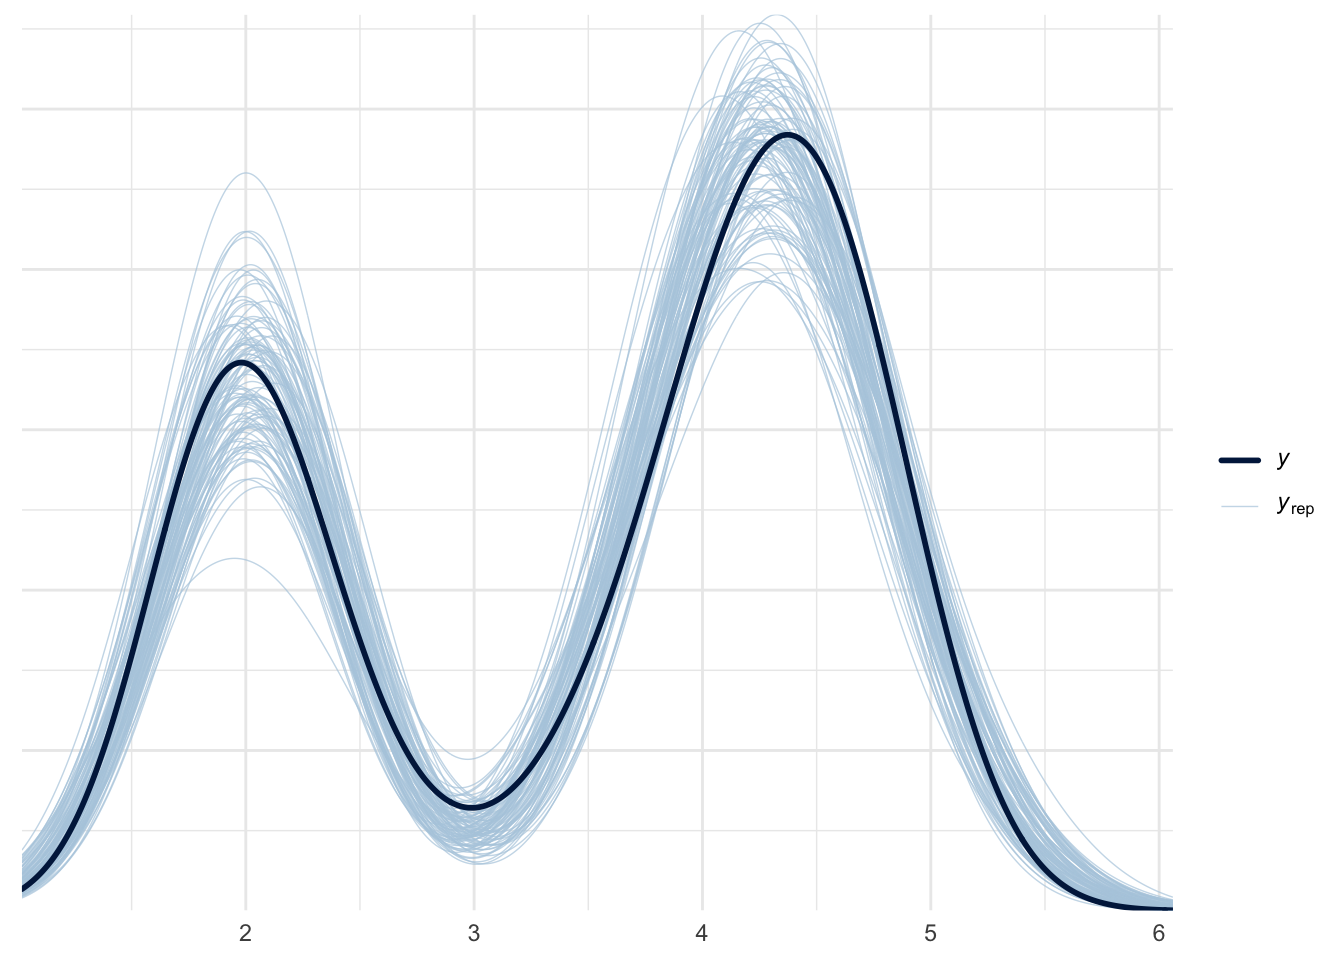
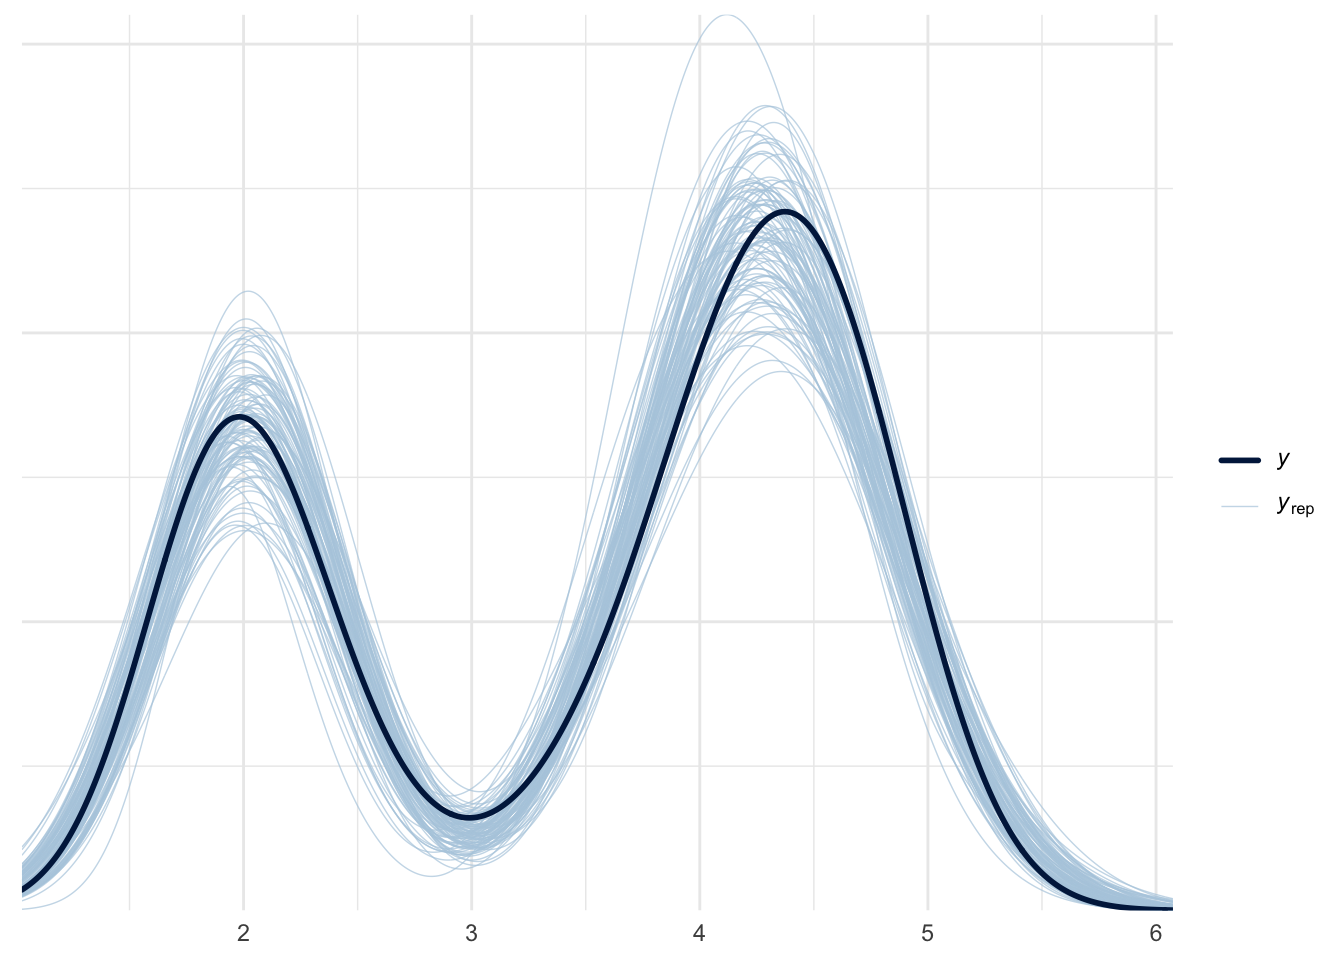
fixed notation; a mixture of gaussians is not equivalent to a sum of gaussians

diff --git a/docs/posts.html b/docs/posts.html
@@ -183,7 +183,7 @@ window.Quarto = {
 
 <div class="quarto-listing quarto-listing-container-default" id="listing-listing">
 <div class="list quarto-listing-default">
-<div class="quarto-post image-right" data-index="0" data-categories="U3RhdGlzdGljcw==" data-listing-date-sort="1742849023000" data-listing-file-modified-sort="1742849023566" data-listing-date-modified-sort="NaN" data-listing-reading-time-sort="5" data-listing-word-count-sort="801">
+<div class="quarto-post image-right" data-index="0" data-categories="U3RhdGlzdGljcw==" data-listing-date-sort="1742926377000" data-listing-file-modified-sort="1742926377781" data-listing-date-modified-sort="NaN" data-listing-reading-time-sort="5" data-listing-word-count-sort="803">
 <div class="thumbnail">
 <p><a href="./posts/mixture model 1/index.html" class="no-external"></a></p><a href="./posts/mixture model 1/index.html" class="no-external">
 <p class="card-img-top"><img src="posts/mixture model 1/index_files/figure-html/unnamed-chunk-2-1.png"  class="thumbnail-image card-img"/></p>
@@ -208,7 +208,7 @@ Statistics
 <div class="metadata">
 <a href="./posts/mixture model 1/index.html" class="no-external">
 <div class="listing-date">
-Mar 24, 2025
+Mar 25, 2025
 </div>
 <div class="listing-author">
 Sheng Long

diff --git a/docs/posts/mixture model 1/index.html b/docs/posts/mixture model 1/index.html
@@ -7,7 +7,7 @@
 <meta name="viewport" content="width=device-width, initial-scale=1.0, user-scalable=yes">
 
 <meta name="author" content="Sheng Long">
-<meta name="dcterms.date" content="2025-03-24">
+<meta name="dcterms.date" content="2025-03-25">
 
 <title>Simple Mixture Models with brms and stan – Sheng Long</title>
 <style>
@@ -193,7 +193,7 @@ window.Quarto = {
     <div>
     <div class="quarto-title-meta-heading">Published</div>
     <div class="quarto-title-meta-contents">
-      <p class="date">March 24, 2025</p>
+      <p class="date">March 25, 2025</p>
     </div>
   </div>
   
@@ -257,10 +257,11 @@ window.Quarto = {
 <p>The data looks bimodal. We can come up with a simple mixture model:</p>
 <p><span class="math display">\[
 \begin{align}
-y_i &amp;\sim \theta \cdot \mathcal{N}(\mu_1, \sigma_1) + (1 - \theta) \cdot \mathcal{N}(\mu_2, \sigma_2) \\
+z_i | \theta &amp;\sim \text{Categorical}(\theta, 1 - \theta) \\
+y_i &amp;\sim \mathcal{N}(\mu_{z_i}, \sigma_{z_i}) \\
 \mu_1, \mu_2 &amp;\sim \mathcal{N}(0, 2), \mu_1 &lt; \mu_2 \\
 \sigma_1, \sigma_2 &amp;\sim \mathcal{N}^+(0, 2) \\
-\theta &amp;\sim \text{Beta}(5, 5)
+\theta &amp;\sim \text{Beta}(5, 5) \,\,\, (*)
 \end{align}
 \]</span></p>
 </section>
